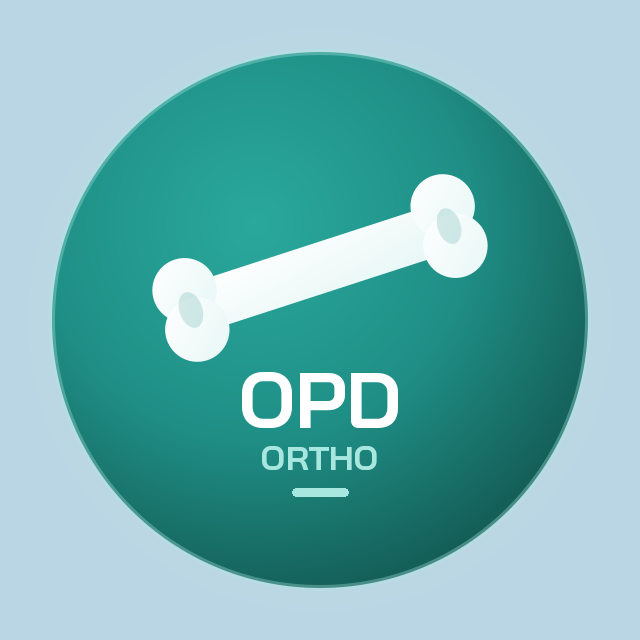
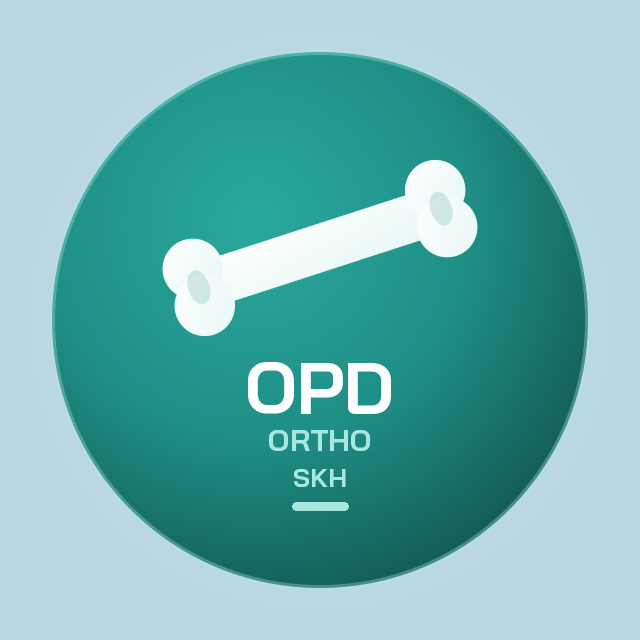
Add SKH (Samut Sakhon Hospital) to LINE OA profile wordmark

Changed region(s): [[0.2188, 0.25, 0.7812, 0.5625], [0.375, 0.5625, 0.625, 0.8125]]

diff --git a/line/profile/generate-image.py b/line/profile/generate-image.py
@@ -90,7 +90,7 @@ def badge_and_bone_svg() -> str:
   <circle cx="320" cy="320" r="268" fill="none" stroke="#a8e6e0" stroke-opacity="0.35" stroke-width="6"/>
 
   <!-- Orthopedic long-bone mark (horizontal, slightly tilted for style) -->
-  <g transform="translate(320, 268) rotate(-18) scale(1.15)" filter="url(#soft)">
+  <g transform="translate(320, 248) rotate(-18) scale(1.08)" filter="url(#soft)">
     <!-- Shaft -->
     <rect x="-118" y="-22" width="236" height="44" rx="22" fill="url(#bone)"/>
     <!-- Left epiphysis (joint knobs) -->
@@ -152,10 +152,11 @@ def main() -> None:
     draw = ImageDraw.Draw(composed)
 
     # Wordmark inside the teal disc, below the bone — high contrast white
-    center_text(draw, "OPD", 400, load_font(78), WHITE)
-    center_text(draw, "ORTHO", 458, load_font(34), MINT)
-    # Accent dash
-    draw.rounded_rectangle((292, 488, 348, 496), radius=4, fill=MINT)
+    center_text(draw, "OPD", 388, load_font(72), WHITE)
+    center_text(draw, "ORTHO", 440, load_font(30), MINT)
+    center_text(draw, "SKH", 478, load_font(26), MINT)
+    # Accent dash under SKH (Samut Sakhon Hospital)
+    draw.rounded_rectangle((292, 502, 348, 510), radius=4, fill=MINT)
 
     rgb = composed.convert("RGB")
     rgb.save(OUT_PNG, format="PNG", optimize=True)

diff --git a/line/profile/README.md b/line/profile/README.md
@@ -30,8 +30,8 @@ Source: [LINE OA media specification](https://lineforbusiness.com/th/helpcenter/
 
 **Orthopedic brand badge** — solid teal disc (easy to spot in a chat list),
 bold white **long-bone** mark (reads as ortho, not generic hospital), **OPD /
-ORTHO** wordmark in high-contrast type. Soft mint/sky square surround so
-uncropped corners still match the app brand.
+ORTHO / SKH** wordmark (Samut Sakhon Hospital) in high-contrast type. Soft
+mint/sky square surround so uncropped corners still match the app brand.
 
 Why this shape: LINE crops to a circle; a filled teal disc + thick bone
 silhouette stays recognizable down to ~40 px.
@@ -48,5 +48,5 @@ python3 line/profile/generate-image.py
 1. Open [LINE Official Account Manager](https://manager.line.biz/) → your OA
 2. **Settings** → **Profile** → profile photo
 3. Upload `profile.png` or `profile.jpg` (either is under 3 MB)
-4. Adjust crop if prompted — keep the heart + OPD centered
+4. Adjust crop if prompted — keep the bone + OPD / SKH centered
 5. Save (profile photo can be changed once per hour)
